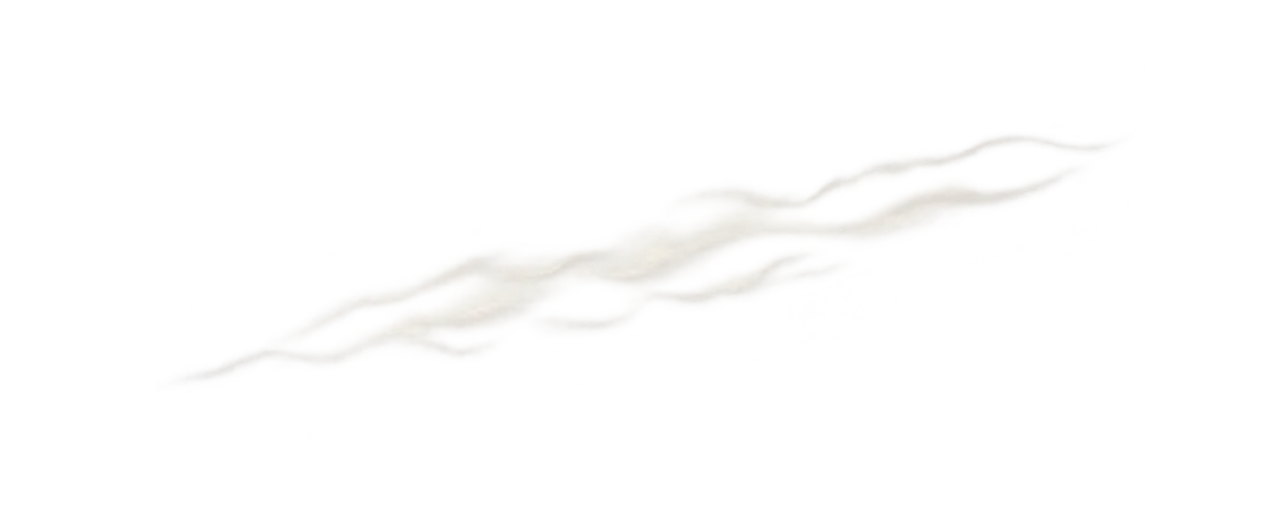
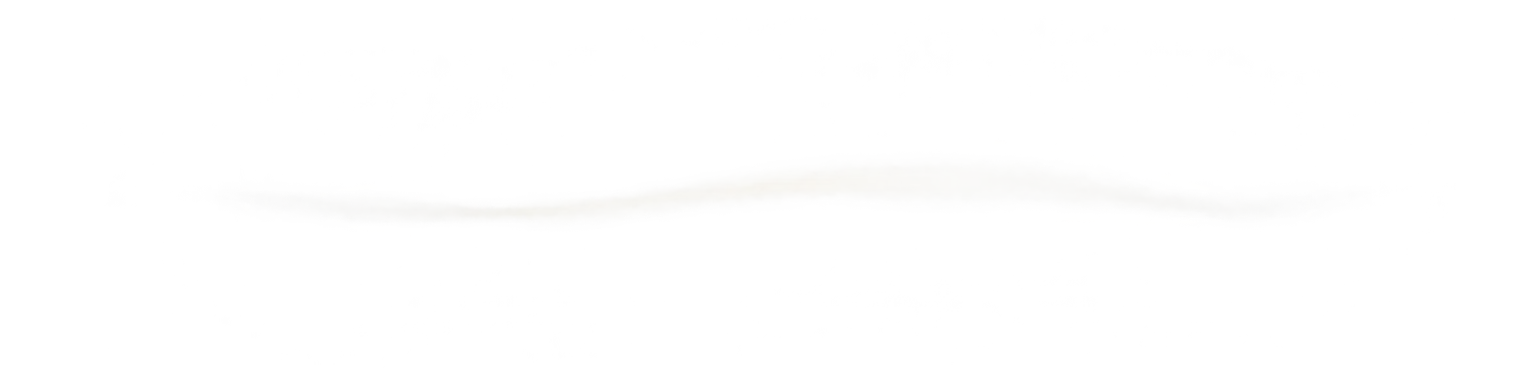
Brumes v2 : voiles plats qui filent, trois nappes en parallaxe sur les îles verrouillées

diff --git a/index.html b/index.html
@@ -117,9 +117,10 @@ img{max-width:100%;-webkit-user-drag:none;user-select:none;pointer-events:none}
 .lvl-pill svg{width:14px;height:14px;flex:none;filter:drop-shadow(0 1px 1px rgba(0,0,0,.8))}
 .isle.locked .land,.isle.locked .lag{filter:blur(2.6px) brightness(.62) saturate(.5)}
 /* (le flottement « bob » de l'île courante est retiré : l'écume de rivage fait vivre l'île à sa place) */
-/* Brumes et nuages : dérive lente et continue (l'aller-retour rapide faisait figé), un peu plus transparents */
-.fogpatch{position:absolute;width:360px;transform:translate(-50%,-50%);pointer-events:none;opacity:.8;animation:fogdrift 52s ease-in-out infinite alternate}
-@keyframes fogdrift{to{transform:translate(calc(-50% + 46px),calc(-50% + 6px)) scale(1.05)}}
+/* Brumes : des nappes plates qui FILENT — traversée continue, fondu aux deux bouts pour masquer le retour.
+   Sous prefers-reduced-motion (durée ~0, une itération) l'élément retombe sur son état de base, visible et immobile. */
+.fogpatch{position:absolute;width:360px;--fo:.75;--fx:190px;transform:translate(-50%,-50%);pointer-events:none;opacity:var(--fo);animation:fogrun 38s linear infinite}
+@keyframes fogrun{0%{transform:translate(calc(-50% - var(--fx)),calc(-50% + 8px));opacity:0}12%{opacity:var(--fo)}85%{opacity:var(--fo)}100%{transform:translate(calc(-50% + var(--fx)),calc(-50% - 8px));opacity:0}}
 /* Le navire passe DEVANT les brumes et les nuages d'orage (z-index 2) : il reste net en toutes eaux */
 .ship-token{position:absolute;width:86px;z-index:3;transform:translate(-50%,-50%) rotate(-30deg);pointer-events:none;filter:drop-shadow(0 8px 6px rgba(0,0,0,.4));animation:shipbob 3s ease-in-out infinite;transition:left 1.2s ease-in-out,top 1.2s ease-in-out}
 /* Carte vivante : mouettes, ronds d'eau du navire, écume des lagons, fumée du port — transform et opacity seulement,
@@ -737,10 +738,8 @@ textarea.fld{min-height:76px}
 .lair.won img{filter:drop-shadow(0 10px 8px rgba(4,18,26,.45));opacity:1}
 .lair .lbl{position:absolute;left:50%;bottom:-2px;transform:translateX(-50%);white-space:nowrap;font-weight:800;font-size:15px;background:rgba(10,26,36,.62);-webkit-backdrop-filter:blur(3px);backdrop-filter:blur(3px);border:1px solid rgba(243,213,140,.55);border-radius:10px;padding:2px 12px 3px;box-shadow:0 3px 10px rgba(0,0,0,.4)}
 .mapcomp{position:absolute;width:130px;transform:translate(-50%,-50%) rotate(-14deg);opacity:.8;pointer-events:none;filter:drop-shadow(0 6px 6px rgba(4,18,26,.35))}
-.fogpatch.fb{animation:fogdrift2 74s ease-in-out infinite alternate;opacity:.72}
-@keyframes fogdrift2{from{transform:translate(calc(-50% + 26px),-50%)}to{transform:translate(calc(-50% - 40px),calc(-50% - 8px)) scale(1.04)}}
-.fogpatch.fc{animation:fogdrift3 88s ease-in-out infinite alternate;opacity:.66}
-@keyframes fogdrift3{to{transform:translate(calc(-50% + 64px),calc(-50% - 12px)) scale(1.06)}}
+.fogpatch.fb{--fo:.6;--fx:150px;animation-duration:58s;animation-delay:-23s}
+.fogpatch.fc{--fo:.55;--fx:280px;animation-duration:24s;animation-delay:-9s}
 .trow{display:flex;align-items:center;gap:10px;width:100%}.trow .tload{flex:1}
 .tcomp{width:44px;height:44px;flex:none;animation:cspin 6s linear infinite;filter:drop-shadow(0 2px 4px rgba(0,0,0,.5))}
 .tcomp.done{animation-play-state:paused}
@@ -889,6 +888,7 @@ button.medal{display:block;padding:0;cursor:pointer}
 .skies .gulls .gull{color:#f6f2e6;filter:drop-shadow(0 18px 3px rgba(3,22,32,.35))}
 .csh{position:absolute;left:0;height:230px;border-radius:50%;background:radial-gradient(closest-side,rgba(3,24,34,.3),rgba(3,24,34,.13) 55%,transparent);animation:cshdrift var(--d,90s) linear infinite;animation-delay:var(--del,0s)}
 @keyframes cshdrift{from{transform:translateX(-480px)}to{transform:translateX(660px)}}
+.fogpatch.lift{--fo:.92;animation:none}
 .fogpatch.lift.go{animation:fogaway 1.6s ease-out forwards}
 @keyframes fogaway{to{opacity:0;transform:translate(-50%,-50%) scale(1.6)}}
 .isle.hidden-new .land{opacity:0}.isle.hidden-new .lbl{opacity:0}
@@ -1063,7 +1063,11 @@ button.medal{display:block;padding:0;cursor:pointer}
 .seagl .ocean{visibility:hidden}
 .mstorm{position:absolute;width:0;height:0;pointer-events:none;z-index:2}
 .mstorm .fogpatch,.mstorm .bolt{max-width:none}
-.mstorm .fogpatch{left:0;top:0;width:330px;opacity:.86;filter:brightness(.78) saturate(.55) hue-rotate(-10deg)}
+/* Île verrouillée : trois nappes superposées à vitesses différentes — la parallaxe entre couches fait la profondeur, l'île se devine dessous */
+.mstorm .fogpatch{left:0;top:0;width:330px;--fx:30px;opacity:.92;filter:brightness(.78) saturate(.55) hue-rotate(-10deg);animation:fogsway 16s ease-in-out infinite alternate;animation-delay:var(--sdel,0s)}
+.mstorm .f2{width:365px;top:-8px;--fx:46px;opacity:.8;animation-duration:25s;animation-delay:calc(var(--sdel,0s) - 11s)}
+.mstorm .f3{width:390px;top:12px;--fx:74px;opacity:.55;animation-duration:11s;animation-delay:calc(var(--sdel,0s) - 5s)}
+@keyframes fogsway{from{transform:translate(calc(-50% - var(--fx,30px)),-50%)}to{transform:translate(calc(-50% + var(--fx,30px)),calc(-50% + 6px))}}
 .mstorm .bolt{position:absolute;left:var(--bx,-20px);top:-44px;width:40px;height:94px;opacity:0;filter:drop-shadow(0 0 4px #fff) drop-shadow(0 0 16px rgba(160,195,255,1));animation:bolt var(--bd,7s) linear infinite;animation-delay:var(--bdel,0s)}
 .mstorm.fb .bolt{transform:scaleX(-1)}
 .mstorm .flash{position:absolute;left:-160px;top:-95px;width:320px;height:190px;border-radius:50%;background:radial-gradient(closest-side,rgba(236,241,255,.9),rgba(200,215,255,.35) 48%,transparent);mix-blend-mode:screen;opacity:0;animation:cflash var(--bd,7s) linear infinite;animation-delay:var(--bdel,0s)}
@@ -5814,7 +5818,7 @@ function renderMap() {
       <span class="lbl"><b>${!lk ? penArt(rk(s)) : ''}<span class="col"><span class="ti">${i.n}</span><span class="lv">${lk ? `${ico('iLock')} ${left(i)} escale${left(i) > 1 ? 's' : ''} à gagner` : rk(s) === 2 ? 'Île maîtrisée' : `${capF(IRANK[rk(s)].n)} · niveau ${Math.min(s.node, NODES)}/${NODES}`}</span></span></b></span></button>`;
   }).join('');
   // Île pas encore ouverte : on la devine, floue, sous un nuage d'orage traversé d'éclairs
-  const fog = sea.filter(i => !unlocked(i)).map((i, k) => `<div class="mstorm${k % 2 ? ' fb' : ''}" style="left:${px(i)}px;top:${i.y - 18}px;--bd:${(6.5 + (k * 2.3) % 4).toFixed(1)}s;--bdel:-${(k * 2.9 % 7).toFixed(1)}s;--bx:${k % 2 ? 8 : -34}px" aria-hidden="true"><img class="fogpatch${k % 2 ? ' fb' : ''}" src="${IMG(k % 2 ? 'fx-fog-b' : 'fx-fog-a')}" alt="">${BOLT}<i class="flash"></i></div>`).join('');
+  const fog = sea.filter(i => !unlocked(i)).map((i, k) => `<div class="mstorm${k % 2 ? ' fb' : ''}" style="left:${px(i)}px;top:${i.y - 18}px;--bd:${(6.5 + (k * 2.3) % 4).toFixed(1)}s;--bdel:-${(k * 2.9 % 7).toFixed(1)}s;--bx:${k % 2 ? 8 : -34}px;--sdel:-${(k * 4.7 % 13).toFixed(1)}s" aria-hidden="true"><img class="fogpatch" src="${IMG('fx-fog-b')}" alt=""><img class="fogpatch f2" src="${IMG('fx-fog-a')}" alt=""><img class="fogpatch f3" src="${IMG('fx-fog-c')}" alt="">${BOLT}<i class="flash"></i></div>`).join('');
   app.innerHTML = `<div class="screen">
     <div class="map-scroll" id="mapScroll"><div class="map sea-${S.sea}" style="height:${MH}px">
       <div class="ocean"></div><div class="glints"></div>

diff --git a/src/app.html b/src/app.html
@@ -88,9 +88,10 @@ img{max-width:100%;-webkit-user-drag:none;user-select:none;pointer-events:none}
 .lvl-pill svg{width:14px;height:14px;flex:none;filter:drop-shadow(0 1px 1px rgba(0,0,0,.8))}
 .isle.locked .land,.isle.locked .lag{filter:blur(2.6px) brightness(.62) saturate(.5)}
 /* (le flottement « bob » de l'île courante est retiré : l'écume de rivage fait vivre l'île à sa place) */
-/* Brumes et nuages : dérive lente et continue (l'aller-retour rapide faisait figé), un peu plus transparents */
-.fogpatch{position:absolute;width:360px;transform:translate(-50%,-50%);pointer-events:none;opacity:.8;animation:fogdrift 52s ease-in-out infinite alternate}
-@keyframes fogdrift{to{transform:translate(calc(-50% + 46px),calc(-50% + 6px)) scale(1.05)}}
+/* Brumes : des nappes plates qui FILENT — traversée continue, fondu aux deux bouts pour masquer le retour.
+   Sous prefers-reduced-motion (durée ~0, une itération) l'élément retombe sur son état de base, visible et immobile. */
+.fogpatch{position:absolute;width:360px;--fo:.75;--fx:190px;transform:translate(-50%,-50%);pointer-events:none;opacity:var(--fo);animation:fogrun 38s linear infinite}
+@keyframes fogrun{0%{transform:translate(calc(-50% - var(--fx)),calc(-50% + 8px));opacity:0}12%{opacity:var(--fo)}85%{opacity:var(--fo)}100%{transform:translate(calc(-50% + var(--fx)),calc(-50% - 8px));opacity:0}}
 /* Le navire passe DEVANT les brumes et les nuages d'orage (z-index 2) : il reste net en toutes eaux */
 .ship-token{position:absolute;width:86px;z-index:3;transform:translate(-50%,-50%) rotate(-30deg);pointer-events:none;filter:drop-shadow(0 8px 6px rgba(0,0,0,.4));animation:shipbob 3s ease-in-out infinite;transition:left 1.2s ease-in-out,top 1.2s ease-in-out}
 /* Carte vivante : mouettes, ronds d'eau du navire, écume des lagons, fumée du port — transform et opacity seulement,
@@ -708,10 +709,8 @@ textarea.fld{min-height:76px}
 .lair.won img{filter:drop-shadow(0 10px 8px rgba(4,18,26,.45));opacity:1}
 .lair .lbl{position:absolute;left:50%;bottom:-2px;transform:translateX(-50%);white-space:nowrap;font-weight:800;font-size:15px;background:rgba(10,26,36,.62);-webkit-backdrop-filter:blur(3px);backdrop-filter:blur(3px);border:1px solid rgba(243,213,140,.55);border-radius:10px;padding:2px 12px 3px;box-shadow:0 3px 10px rgba(0,0,0,.4)}
 .mapcomp{position:absolute;width:130px;transform:translate(-50%,-50%) rotate(-14deg);opacity:.8;pointer-events:none;filter:drop-shadow(0 6px 6px rgba(4,18,26,.35))}
-.fogpatch.fb{animation:fogdrift2 74s ease-in-out infinite alternate;opacity:.72}
-@keyframes fogdrift2{from{transform:translate(calc(-50% + 26px),-50%)}to{transform:translate(calc(-50% - 40px),calc(-50% - 8px)) scale(1.04)}}
-.fogpatch.fc{animation:fogdrift3 88s ease-in-out infinite alternate;opacity:.66}
-@keyframes fogdrift3{to{transform:translate(calc(-50% + 64px),calc(-50% - 12px)) scale(1.06)}}
+.fogpatch.fb{--fo:.6;--fx:150px;animation-duration:58s;animation-delay:-23s}
+.fogpatch.fc{--fo:.55;--fx:280px;animation-duration:24s;animation-delay:-9s}
 .trow{display:flex;align-items:center;gap:10px;width:100%}.trow .tload{flex:1}
 .tcomp{width:44px;height:44px;flex:none;animation:cspin 6s linear infinite;filter:drop-shadow(0 2px 4px rgba(0,0,0,.5))}
 .tcomp.done{animation-play-state:paused}
@@ -860,6 +859,7 @@ button.medal{display:block;padding:0;cursor:pointer}
 .skies .gulls .gull{color:#f6f2e6;filter:drop-shadow(0 18px 3px rgba(3,22,32,.35))}
 .csh{position:absolute;left:0;height:230px;border-radius:50%;background:radial-gradient(closest-side,rgba(3,24,34,.3),rgba(3,24,34,.13) 55%,transparent);animation:cshdrift var(--d,90s) linear infinite;animation-delay:var(--del,0s)}
 @keyframes cshdrift{from{transform:translateX(-480px)}to{transform:translateX(660px)}}
+.fogpatch.lift{--fo:.92;animation:none}
 .fogpatch.lift.go{animation:fogaway 1.6s ease-out forwards}
 @keyframes fogaway{to{opacity:0;transform:translate(-50%,-50%) scale(1.6)}}
 .isle.hidden-new .land{opacity:0}.isle.hidden-new .lbl{opacity:0}
@@ -1034,7 +1034,11 @@ button.medal{display:block;padding:0;cursor:pointer}
 .seagl .ocean{visibility:hidden}
 .mstorm{position:absolute;width:0;height:0;pointer-events:none;z-index:2}
 .mstorm .fogpatch,.mstorm .bolt{max-width:none}
-.mstorm .fogpatch{left:0;top:0;width:330px;opacity:.86;filter:brightness(.78) saturate(.55) hue-rotate(-10deg)}
+/* Île verrouillée : trois nappes superposées à vitesses différentes — la parallaxe entre couches fait la profondeur, l'île se devine dessous */
+.mstorm .fogpatch{left:0;top:0;width:330px;--fx:30px;opacity:.92;filter:brightness(.78) saturate(.55) hue-rotate(-10deg);animation:fogsway 16s ease-in-out infinite alternate;animation-delay:var(--sdel,0s)}
+.mstorm .f2{width:365px;top:-8px;--fx:46px;opacity:.8;animation-duration:25s;animation-delay:calc(var(--sdel,0s) - 11s)}
+.mstorm .f3{width:390px;top:12px;--fx:74px;opacity:.55;animation-duration:11s;animation-delay:calc(var(--sdel,0s) - 5s)}
+@keyframes fogsway{from{transform:translate(calc(-50% - var(--fx,30px)),-50%)}to{transform:translate(calc(-50% + var(--fx,30px)),calc(-50% + 6px))}}
 .mstorm .bolt{position:absolute;left:var(--bx,-20px);top:-44px;width:40px;height:94px;opacity:0;filter:drop-shadow(0 0 4px #fff) drop-shadow(0 0 16px rgba(160,195,255,1));animation:bolt var(--bd,7s) linear infinite;animation-delay:var(--bdel,0s)}
 .mstorm.fb .bolt{transform:scaleX(-1)}
 .mstorm .flash{position:absolute;left:-160px;top:-95px;width:320px;height:190px;border-radius:50%;background:radial-gradient(closest-side,rgba(236,241,255,.9),rgba(200,215,255,.35) 48%,transparent);mix-blend-mode:screen;opacity:0;animation:cflash var(--bd,7s) linear infinite;animation-delay:var(--bdel,0s)}
@@ -5785,7 +5789,7 @@ function renderMap() {
       <span class="lbl"><b>${!lk ? penArt(rk(s)) : ''}<span class="col"><span class="ti">${i.n}</span><span class="lv">${lk ? `${ico('iLock')} ${left(i)} escale${left(i) > 1 ? 's' : ''} à gagner` : rk(s) === 2 ? 'Île maîtrisée' : `${capF(IRANK[rk(s)].n)} · niveau ${Math.min(s.node, NODES)}/${NODES}`}</span></span></b></span></button>`;
   }).join('');
   // Île pas encore ouverte : on la devine, floue, sous un nuage d'orage traversé d'éclairs
-  const fog = sea.filter(i => !unlocked(i)).map((i, k) => `<div class="mstorm${k % 2 ? ' fb' : ''}" style="left:${px(i)}px;top:${i.y - 18}px;--bd:${(6.5 + (k * 2.3) % 4).toFixed(1)}s;--bdel:-${(k * 2.9 % 7).toFixed(1)}s;--bx:${k % 2 ? 8 : -34}px" aria-hidden="true"><img class="fogpatch${k % 2 ? ' fb' : ''}" src="${IMG(k % 2 ? 'fx-fog-b' : 'fx-fog-a')}" alt="">${BOLT}<i class="flash"></i></div>`).join('');
+  const fog = sea.filter(i => !unlocked(i)).map((i, k) => `<div class="mstorm${k % 2 ? ' fb' : ''}" style="left:${px(i)}px;top:${i.y - 18}px;--bd:${(6.5 + (k * 2.3) % 4).toFixed(1)}s;--bdel:-${(k * 2.9 % 7).toFixed(1)}s;--bx:${k % 2 ? 8 : -34}px;--sdel:-${(k * 4.7 % 13).toFixed(1)}s" aria-hidden="true"><img class="fogpatch" src="${IMG('fx-fog-b')}" alt=""><img class="fogpatch f2" src="${IMG('fx-fog-a')}" alt=""><img class="fogpatch f3" src="${IMG('fx-fog-c')}" alt="">${BOLT}<i class="flash"></i></div>`).join('');
   app.innerHTML = `<div class="screen">
     <div class="map-scroll" id="mapScroll"><div class="map sea-${S.sea}" style="height:${MH}px">
       <div class="ocean"></div><div class="glints"></div>
